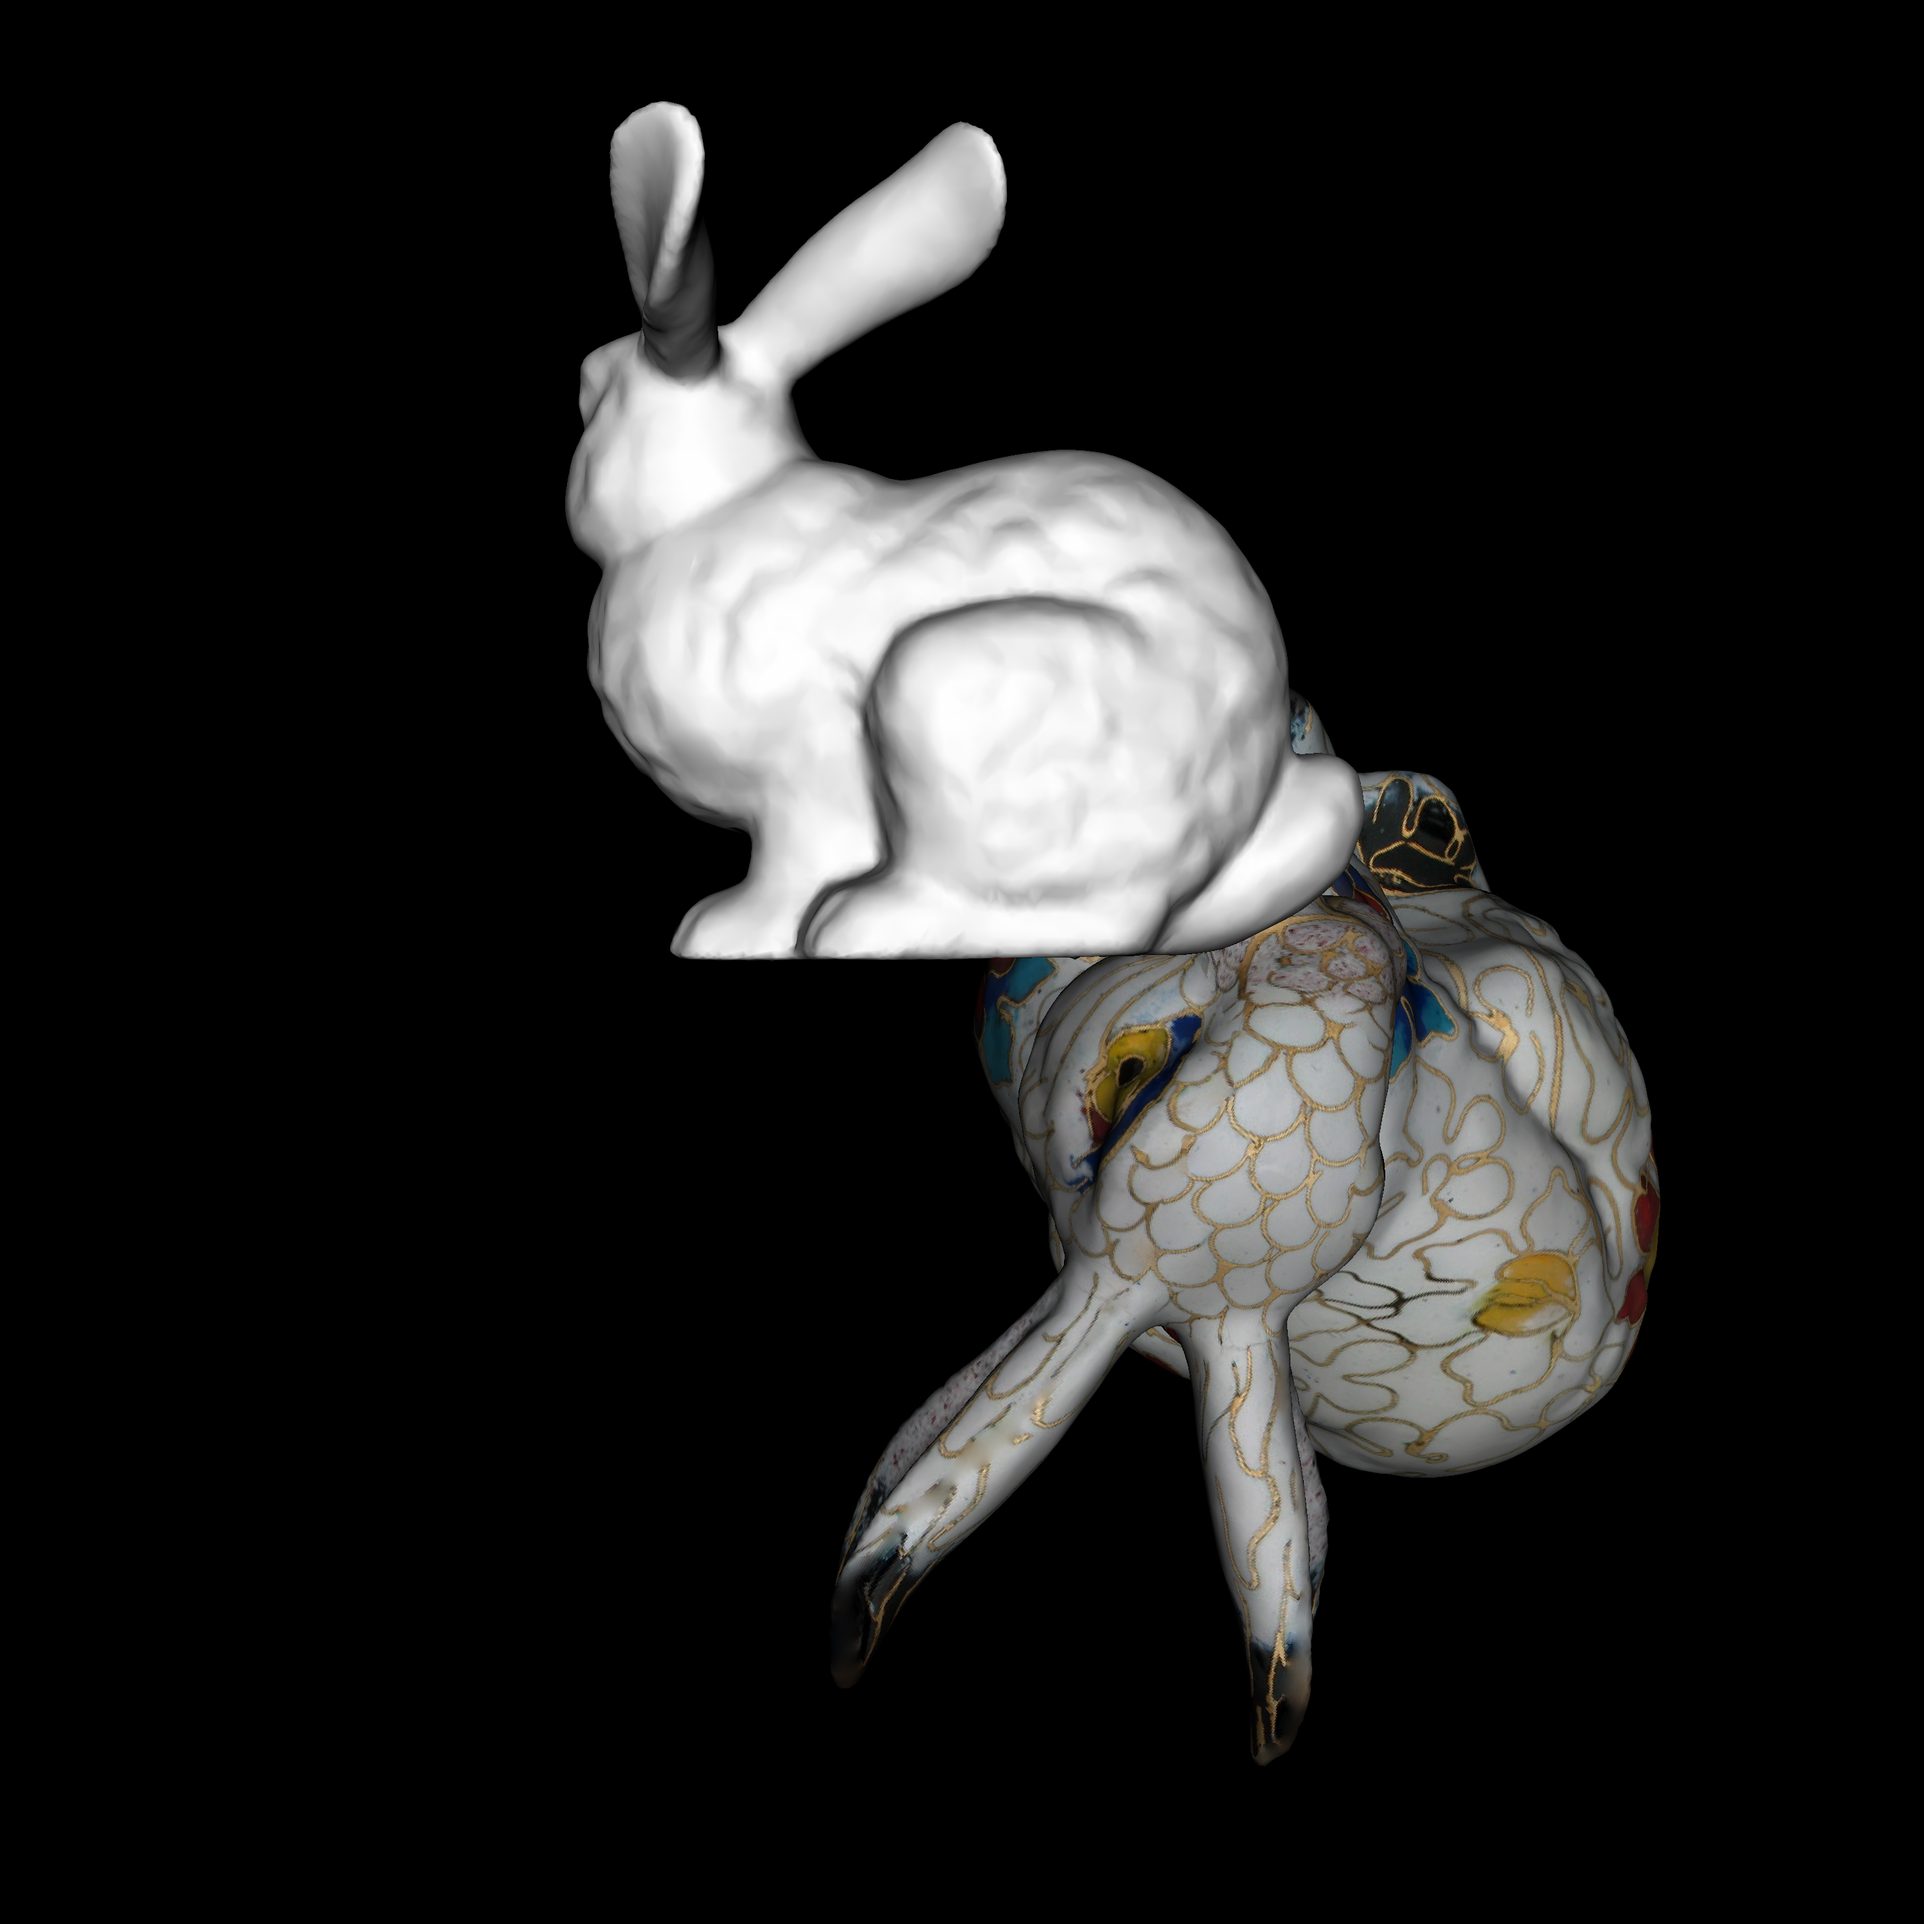
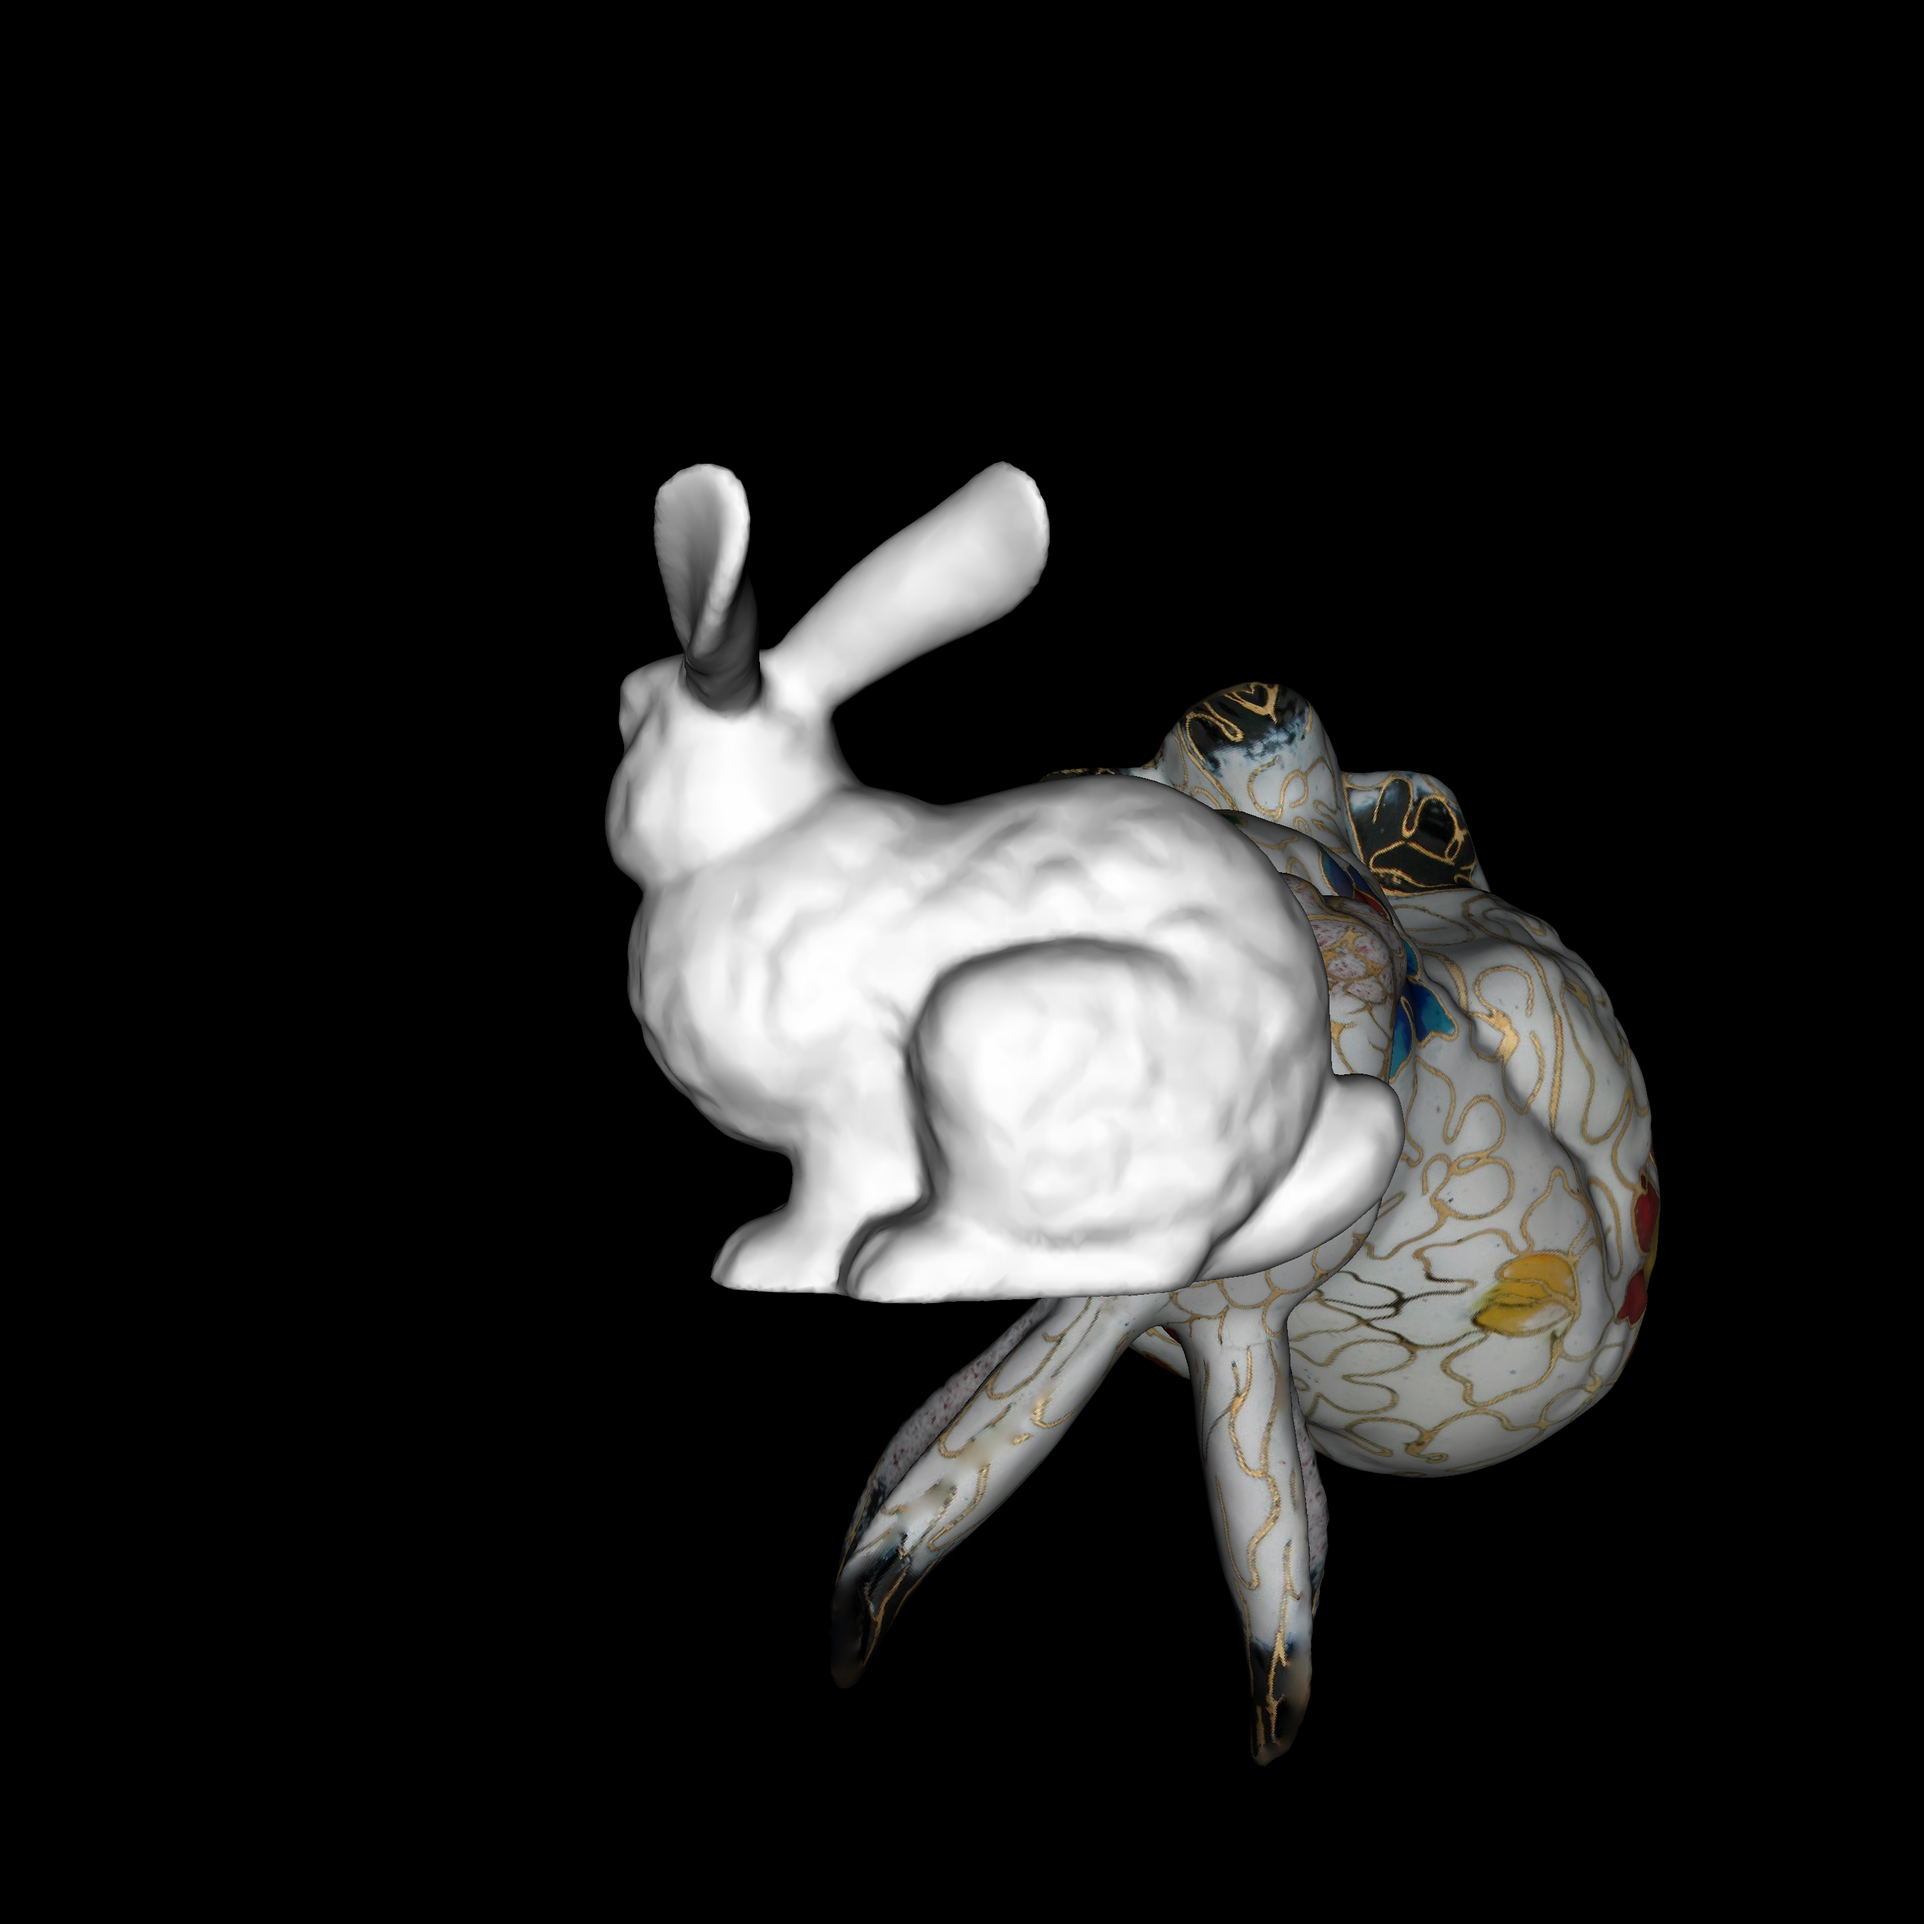
quae fix and final

Changed region(s): [[0.279, 0.031, 0.744, 0.682]]

diff --git a/lab5_kg/T2.py b/lab5_kg/T2.py
@@ -3,8 +3,8 @@ import math
 from PIL import Image, ImageOps
 import time
 
-IMAGE_WIDTH = 4000
-IMAGE_HEIGHT = 4000
+IMAGE_WIDTH = 1000
+IMAGE_HEIGHT = 100
 AX = 5000  
 AY = 5000 
 U0 = IMAGE_WIDTH // 2  
@@ -59,7 +59,7 @@ def render_model(model_path, texture_path=None,
             f = [tuple(part.split('/')) for part in s[1:]]
             vertex_indices = [int(v[0]) for v in f]
             texture_indices = [int(v[1]) for v in f if len(v) > 1]
-            # Триангуляция полигонов с 4+ вершинами
+            # 4
             for i in range(1, len(vertex_indices) - 1):
                 F.append([
                     vertex_indices[0],
@@ -73,13 +73,13 @@ def render_model(model_path, texture_path=None,
                         texture_indices[i + 1]
                     ])
     
-    # Преобразование вершин
+   
     if use_quaternion and q is not None:
         V_T = transform_vertices_quat(V, q, t_x, t_y, t_z)
     else:
         V_T = transform_vertices(V, math.radians(a), math.radians(b), math.radians(g), t_x, t_y, t_z) # трансформа все
     
-    # Вычисление нормалей к вершинам
+    
     vertex_normals = {}
     for face in F:
         v0_idx, v1_idx, v2_idx = face[0]-1, face[1]-1, face[2]-1
@@ -249,8 +249,20 @@ def transform_vertices(vertices, a, b, g, t_x, t_y, t_z):
         ])
     return trans
 
+
+def quae_add(normal1, deg_1):
+    deg = math.radians(deg_1)
+    sin_half = math.sin(deg / 2)
+    cos_half = math.cos(deg / 2)
+    nx, ny, nz = normal1
+    norm = math.sqrt(nx**2 + ny**2 + nz**2)
+    nx, ny, nz = nx/norm, ny/norm, nz/norm
+    return (cos_half, nx * sin_half, ny * sin_half, nz * sin_half)
+
+
 def quaternion_to_matrix(q):
     w, x, y, z = q
+
     return np.array([
         [1 - 2*y**2 - 2*z**2,     2*x*y - 2*z*w,       2*x*z + 2*y*w],
         [2*x*y + 2*z*w,           1 - 2*x**2 - 2*z**2, 2*y*z - 2*x*w],
@@ -265,14 +277,16 @@ def save_image(img_mat, filename):
 if __name__ == "__main__":
     start_time = time.time()
     print("Начало обработки...")
+    normal1 = (0, 1, 0)
+    gard = 45
+    
     
     print("Рендеринг  модели 1...")
     img_mat, z_buff = render_model(
         model_path="mod.obj",
         texture_path="bunny-atlas.jpg",
         use_quaternion=True,
-        q=[0.9659, 0, 0.2588, 0],
-
+        q=quae_add(normal1,gard), 
         #scale_x=1.5, scale_y=1.5, scale_z=1.5,  
         shift_x=-0.1,  
     )

diff --git a/lab5_kg/T1.py b/lab5_kg/T1.py
@@ -249,6 +249,8 @@ def transform_vertices(vertices, a, b, g, t_x, t_y, t_z):
         ])
     return trans
 
+
+
 def quaternion_to_matrix(q):
     w, x, y, z = q
     return np.array([
@@ -256,7 +258,19 @@ def quaternion_to_matrix(q):
         [2*x*y + 2*z*w,           1 - 2*x**2 - 2*z**2, 2*y*z - 2*x*w],
         [2*x*z - 2*y*w,           2*y*z + 2*x*w,       1 - 2*x**2 - 2*y**2]
     ])
+def quae_add(normal1, deg_1):
+    deg = math.radians(deg_1)
+    sin_half = math.sin(deg / 2)
+    cos_half = math.cos(deg / 2)
+    nx, ny, nz = normal1
+    norm = math.sqrt(nx**2 + ny**2 + nz**2)
+    nx, ny, nz = nx/norm, ny/norm, nz/norm
+    return (cos_half, nx * sin_half, ny * sin_half, nz * sin_half)
 
+normal1 = (0, 1, 0)
+gard = 45
+q=quae_add(normal1,gard)
+print(q)
 def save_image(img_mat, filename):
     img = Image.fromarray(img_mat, mode='RGB')
     img = ImageOps.flip(img)
